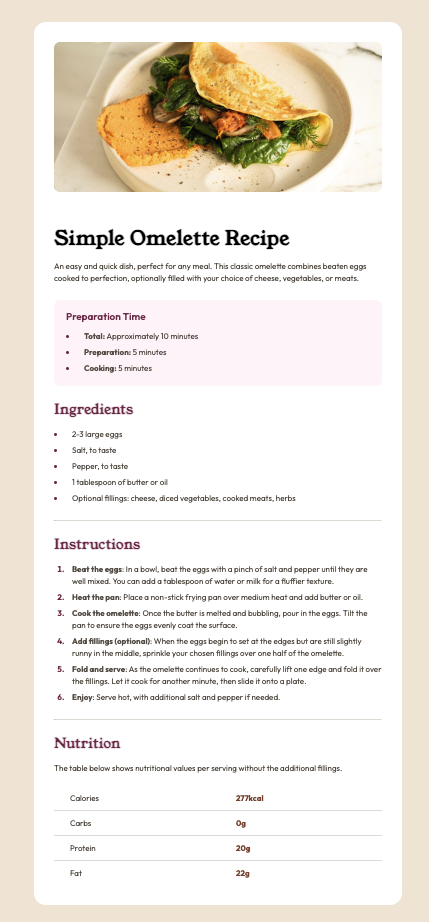
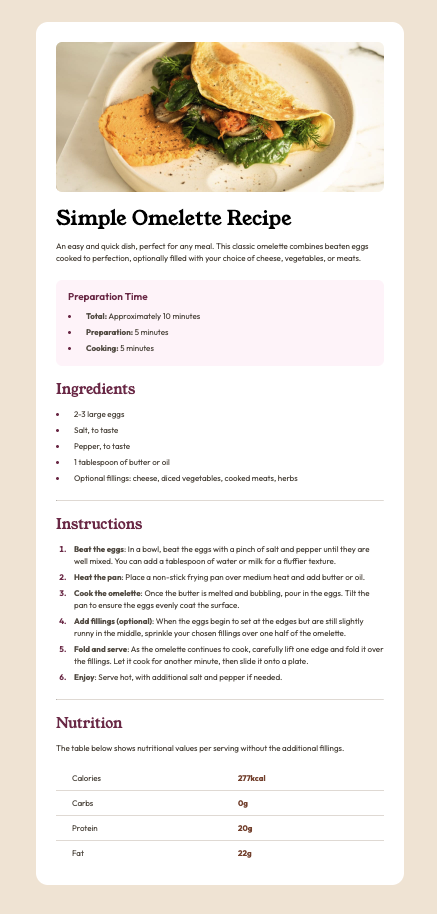
Changed font-weight

Changed region(s): [[0.0606, 0.0306, 0.9394, 0.9803], [0.8182, 0.0306, 0.8788, 0.0613], [0.1212, 0.1532, 0.1515, 0.1838]]

diff --git a/style.css b/style.css
@@ -51,6 +51,7 @@ h1 {
     font-size: 2.5rem; /* 40px */
     line-height: 100%;
     letter-spacing: 0;
+    font-weight: 400;
 }
 
 h2 {
@@ -59,6 +60,7 @@ h2 {
     line-height: 100%;
     letter-spacing: 0;
     color: var(--rose--800);
+    font-weight: 400;
 }
 
 h3 {
@@ -124,9 +126,7 @@ ol li::marker {
     border-radius: var(--spacing-150);
 }
 
-.recipe-header {
-    margin-top: var(--spacing-500);
-}
+
 
 .preparation-section {
     display: flex;
